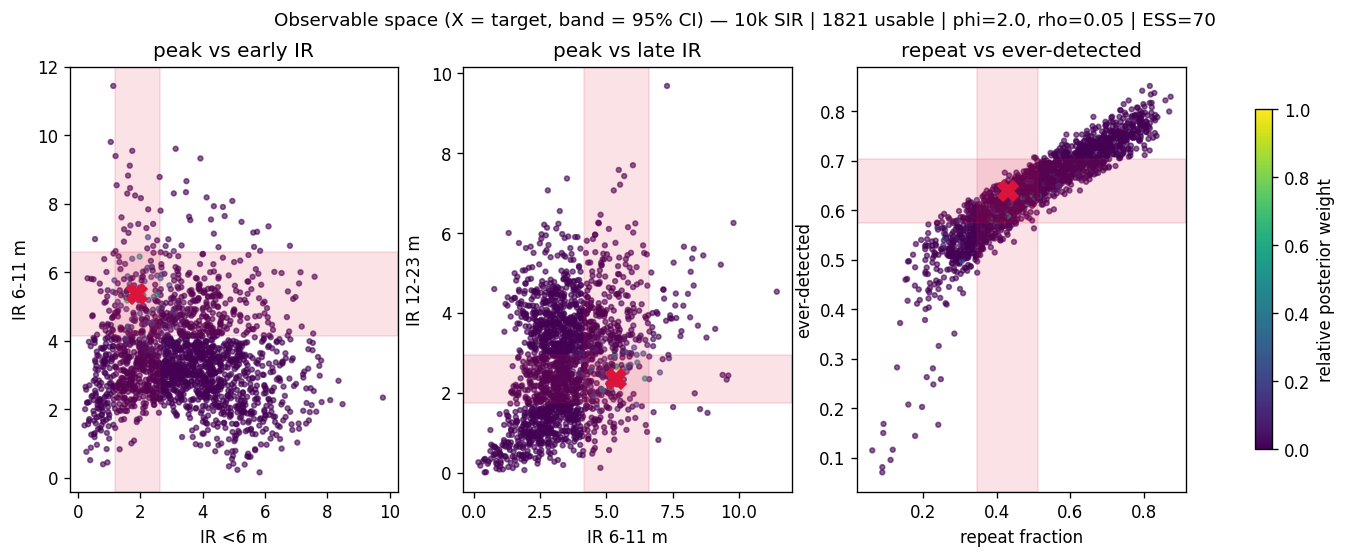
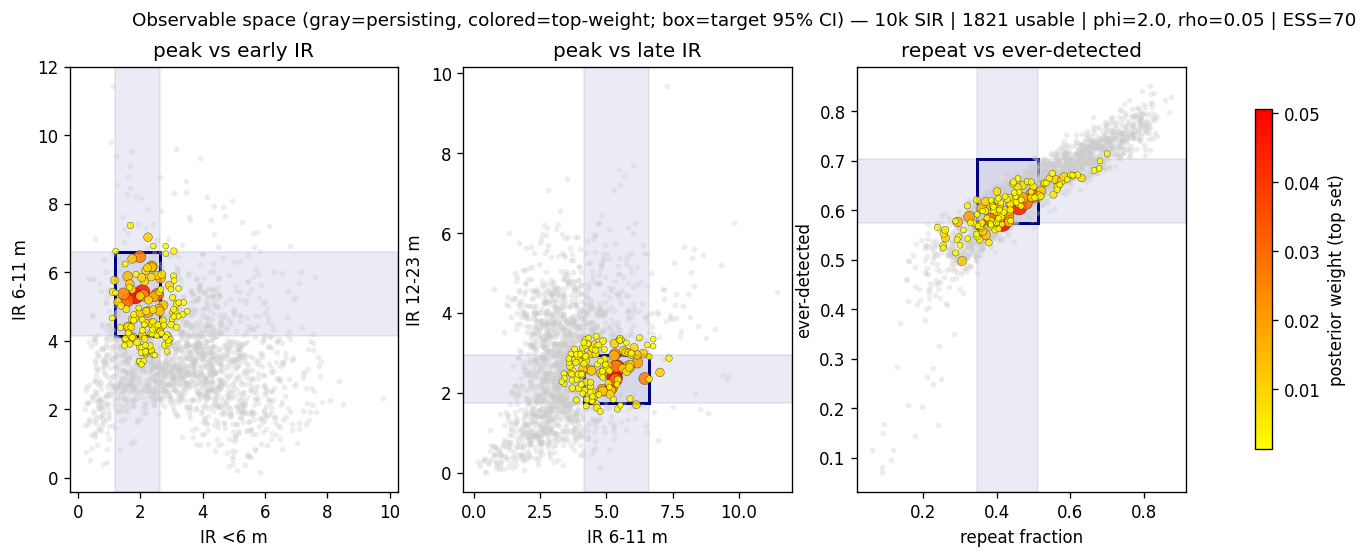
Exp 07: observable-space legibility — gray context + high-weight points, target as CI-box outline under samples
Same fix as fig_trajectories: faint gray persisting cloud + top-weight points (hot cmap, sized
by weight) on top, so the good points are visible. Target drawn as the box where the two 95%
CI bands cross, with the box under the samples and the bands in the background.

diff --git a/experiments/07_history_matching/plot_diagnostics.py b/experiments/07_history_matching/plot_diagnostics.py
@@ -22,6 +22,7 @@ import matplotlib; matplotlib.use('Agg')
 import matplotlib.pyplot as plt
 from matplotlib.cm import ScalarMappable
 from matplotlib.colors import Normalize
+from matplotlib.patches import Rectangle
 from scipy.stats import nbinom, betabinom, spearmanr
 
 HERE = Path(__file__).resolve().parent
@@ -167,11 +168,15 @@ def main():
     # ---------- fig_observable_space: trade-offs + where posterior lives ----------
     fig, axs = plt.subplots(1, 3, figsize=(15, 4.6))
     def sc(ax, xo, yo, xt, yt, xse, yse, xl, yl):
-        x = np.array([recs[k][xo] for k in usable]); y = np.array([recs[k][yo] for k in usable])
-        ax.scatter(x, y, s=8, c=wn, cmap='viridis', alpha=0.6)
-        ax.axvspan(xt - 1.96 * xse, xt + 1.96 * xse, color='crimson', alpha=0.12)
-        ax.axhspan(yt - 1.96 * yse, yt + 1.96 * yse, color='crimson', alpha=0.12)
-        ax.plot(xt, yt, 'X', color='crimson', ms=12, zorder=10)
+        # background CI bands + target box (under the samples), then gray context, then high-weight points
+        ax.axvspan(xt - 1.96 * xse, xt + 1.96 * xse, color='navy', alpha=0.08, zorder=0)
+        ax.axhspan(yt - 1.96 * yse, yt + 1.96 * yse, color='navy', alpha=0.08, zorder=0)
+        ax.add_patch(Rectangle((xt - 1.96 * xse, yt - 1.96 * yse), 2 * 1.96 * xse, 2 * 1.96 * yse,
+                               fill=False, edgecolor='navy', lw=1.8, zorder=1))   # under the samples
+        ax.scatter([recs[k][xo] for k in usable], [recs[k][yo] for k in usable],
+                   s=6, color='0.8', alpha=0.25, zorder=2, rasterized=True)
+        ax.scatter([recs[k][xo] for k in top], [recs[k][yo] for k in top], c=wtop, cmap=cmap,
+                   s=12 + 80 * tnorm(wtop), alpha=0.85, edgecolor='k', linewidth=0.2, zorder=5)
         ax.set_xlabel(xl); ax.set_ylabel(yl)
     sc(axs[0], 'ir_symp_<6 m', 'ir_symp_6-11 m', 1.91, 5.37, TARGET_SE['<6 m'], TARGET_SE['6-11 m'],
        'IR <6 m', 'IR 6-11 m'); axs[0].set_title('peak vs early IR')
@@ -182,9 +187,9 @@ def main():
     ese = np.sqrt((EVER_OBS / EVER_N) * (1 - EVER_OBS / EVER_N) / EVER_N)
     sc(axs[2], 'repeat_detected_frac', 'frac_ever_detected', 0.43, 0.638, rse, ese,
        'repeat fraction', 'ever-detected'); axs[2].set_title('repeat vs ever-detected')
-    sm = ScalarMappable(cmap='viridis', norm=Normalize(0, 1)); sm.set_array([])
-    fig.colorbar(sm, ax=axs, label='relative posterior weight', shrink=0.8)
-    fig.suptitle(f'Observable space (X = target, band = 95% CI) — {sub}', fontsize=11)
+    sm = ScalarMappable(cmap=cmap, norm=tnorm); sm.set_array([])
+    fig.colorbar(sm, ax=axs, label='posterior weight (top set)', shrink=0.8)
+    fig.suptitle(f'Observable space (gray=persisting, colored=top-weight; box=target 95% CI) — {sub}', fontsize=11)
     fig.savefig(FIGDIR / 'fig_observable_space.png', dpi=120, bbox_inches='tight'); plt.close(fig)
 
     # ---------- fig_sensitivity: Spearman(param, observable) over persisting sims ----------
